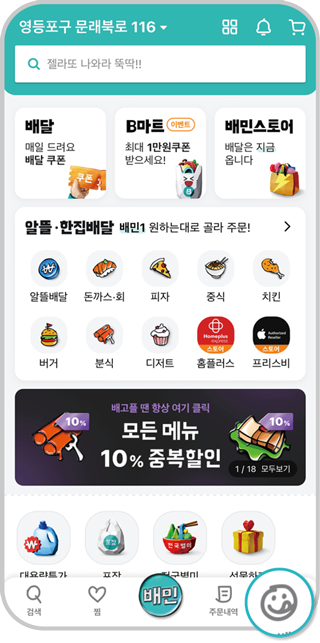
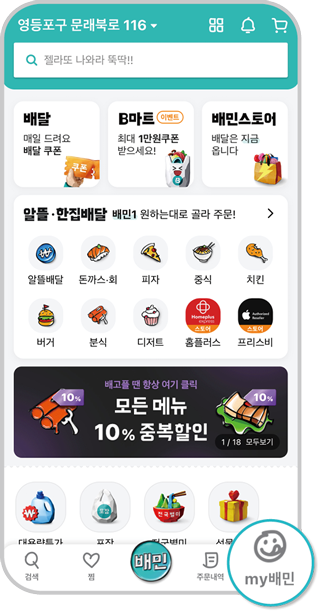
10.27. 추가 수정

diff --git a/public/lib/data.js b/public/lib/data.js
@@ -55,7 +55,7 @@ export const basic = [
             },
             {
                 id: '2',
-                desc: '동의하는 내용에 체크하고 <strong>시작하기</strong>를 누른다. <strong>필수</strong>에 꼭 체크해야 앱을 이용할 수 있다. <strong>선택</strong>은 원하면 체크한다. <p className="text-base">﹡선택에 체크하면 할인 정보, 이벤트 정보 등을 받아볼 수 있다.</p>',
+                desc: '동의하는 내용에 체크하고 <strong>시작하기</strong>를 누른다. <strong>필수</strong>에 꼭 체크해야 앱을 이용할 수 있다. <strong>선택</strong>은 원하면 체크한다. <p style="color:#888;" className="text-base">선택에 체크하면 할인 정보, 이벤트 정보 등을 받아볼 수 있다.</p>',
                 img: '/img/basic_imgs/b-4-2.png',
                 alt: '스마트폰 화면에 배달의민족을 처음 실행한 화면이다. 배달의민족 앱 이용약관 동의를 확인하는 페이지다. 위치 기반 서비스 약관 동의는 <strong>필수</strong>, 마케팅 정보 앱 푸시 알림 수신 동의는 선택 동의 항목이다. 위치 기반 서비스 약관 동의는 배달받기 위해 나의 위치 정보를 확인하는 것이다. 마케팅 정보 앱 푸시 알림 수신 동의는 배달앱의 더 많은 정보를 알림으로 알려주는 것이다.',
             },
@@ -91,13 +91,13 @@ export const basic = [
         tutoContents: [
             {
                 id: '1',
-                desc: '배달의민족 첫 화면에서 <strong>My배민(마이 배민)을</strong> 누른다.',
+                desc: '배달의민족 첫 화면에서 <strong>My배민(마이 배민)</strong>을 누른다.',
                 img: '/img/basic_imgs/b-5-1.png',
                 alt: '배달의민족 첫 화면이다. 맨 위 오른쪽에 웃고 있는 마이 배민 아이콘이 강조되어 있다. 손가락 모양의 아이콘이 마이 배민 아이콘을 가리키고 있다.',
             },
             {
                 id: '2',
-                desc: '로그인해주세요를 누른다.',
+                desc: '<strong>로그인하고 시작하기</strong>를 누른다',
                 img: '/img/basic_imgs/b-5-2.png',
                 alt: '마이 배민 페이지 화면이다. 위쪽에 로그인해주세요 버튼이 강조되어 있다. 손가락 모양의 아이콘이 로그인해주세요 버튼을 가리키고 있다.',
             },
@@ -109,7 +109,7 @@ export const basic = [
             },
             {
                 id: '4',
-                desc: `<div className="mb-2">이메일로 시작하기를 누른다</div>`,
+                desc: `<strong>이메일로 시작하기</strong>를 누른다.`,
                 img: '/img/basic_imgs/b-5-4.png',
                 alt: '회원가입 첫 페이지에 회원가입을 위한 약관이 나타난 화면이다. 필수 배달의민족 이용약관 동의, 필수 전자금융거래 이용약관 동의, 필수 개인정보 수집 이용 동의, 선택 개인정보 수집 이용 동의, 선택 마케팅정보 메일, SMS 수신동의, 선택 개인정보 제3자 제공 동의가 순서대로 있다. 화면 맨 아래에 시작하기 버튼이 있고 손가락 모양의 아이콘이 버튼을 가리키고 있다.',
             },
@@ -204,13 +204,13 @@ export const usage = [
             },
             {
                 id: '3',
-                desc: '<p>무엇을 시킬지 선택하고, 몇 개 시킬지 수량을 정한 후 <strong>담기</strong>를 누른다. </p> <p class="caption lg:text-left">맛, 소스, 토핑 등 옵션을 선택할 수 있다.</p>',
+                desc: '<p>무엇을 시킬지 선택하고, 몇 개 시킬지 수량을 정한 후 <strong>담기</strong>를 누른다. </p> <p style="color:#888;" className="text-base">맛, 소스, 토핑 등 옵션을 선택할 수 있다.</p>',
                 img: '/img/usage/rg-2-3.png',
                 alt: 'BLT 샌드위치를 선택하고, 추가 옵션으로 코우슬로 샐러드, 콘 스프를 추가한 화면이 나타나 있다. 21,000원 담기 버튼이 강조되어 있고, 손가락 모양이 가리키고 있다.',
             },
             {
                 id: '4',
-                desc: '<p><strong>장바구니에 메뉴를 추가했습니다</strong>라는 메시지가 나오고, <strong>장바구니 보기</strong>에 숫자가 생긴다.</p> <p className="caption lg:text-left lg:font-normal lg:text-BM-gray200">선택한 수량만큼 <strong>장바구니 보기</strong>에 숫자로 표시된다.</p>',
+                desc: '<p><strong>장바구니에 메뉴를 추가했습니다</strong>라는 메시지가 나오고, <strong>장바구니 보기</strong>에 숫자가 생긴다.</p> <p style="color:#888;" className="text-base">선택한 수량만큼 <strong>장바구니 보기</strong>에 숫자로 표시된다.</p>',
                 img: '/img/usage/rg-2-4.png',
                 alt: '장바구니에 메뉴를 추가했습니다 라는 알림이 화면에 표시되어 있다. 화면 맨 밑 장바구니 보기 버튼이 강조되어 있다.',
             },
@@ -247,7 +247,7 @@ export const usage = [
             },
             {
                 id: '5',
-                desc: '결제수단이 신용/체크카드인지 확인하고 <strong>본인 확인 후 결제하기</strong>를 누른다. <p className="caption lg:text-left lg:text-lg lg:font-normal lg:text-BM-gray200">첫 주문이라면 본인 확인이 필요하다.</p>',
+                desc: '결제수단이 신용/체크카드인지 확인하고 <strong>본인 확인 후 결제하기</strong>를 누른다. <p style="color:#888;" className="text-base">첫 주문이라면 본인 확인이 필요하다.</p>',
                 img: '/img/usage/rg-3-5.png',
                 alt: '배달의민족 결제하기 화면이다. 화면 가장 아래에 본인 확인 후 결제하기 버튼이 강조되어 있고, 손가락 모양의 아이콘이 버튼을 가리키고 있다.',
             },
@@ -292,7 +292,7 @@ export const usage = [
             },
             {
                 id: '12',
-                desc: '주문 금액과 배달팁이 맞는지 확인하고 <strong>결제하기</strong>를 누른다. <p className="caption lg:text-base lg:text-left">주문 후 취소하려면 어렵고 복잡하다. 주문은 신중하게!</p>',
+                desc: '주문 금액과 배달팁이 맞는지 확인하고 <strong>결제하기</strong>를 누른다. <p style="color:#888;" className="text-base">주문 후 취소하려면 어렵고 복잡하다. 주문은 신중하게!</p>',
                 img: '/img/usage/rg-3-12.png',
                 alt: '배달의민족 주문하기 화면으로 돌아왔다. 결제금액, 주문금액, 배달팁 부분이 강조되어 있고 화면 맨 아래에 22,000원 결제하기 버튼도 강조되어 있다. 손가락 모양의 아이콘이 22,000원 결제하기 버튼을 가리키고 있다.',
             },
@@ -343,7 +343,7 @@ export const advanced = [
             {
                 id: 1,
                 img: '/img/advanced_imgs/adv_id_0_1.png',
-                desc: `배달의민족 첫 화면에서 <strong>배민1</strong>을 누른다.`,
+                desc: `배달의민족 첫 화면에서 <strong>알뜰·한집배달</strong>을 누른다.`,
                 alt: '배달의민족의 첫 화면이다. 손가락 모양의 아이콘이 배민원 버튼을 가리키고 있다.',
             },
             {
@@ -460,7 +460,7 @@ export const advanced = [
             {
                 id: 4,
                 img: '/img/advanced_imgs/adv_id_2_4.png',
-                desc: `<p>지도에서 다른 가게를 더 볼 수 있다. 마음에 드는 곳을 선택해서 메뉴를 주문한다. </p><p className="caption lg:text-left lg:text-lg lg:font-normal lg:text-BM-gray200">목록보기를 누르면 가게 이름과 음식 사진이 나온다.</p>`,
+                desc: `<p>지도에서 다른 가게를 더 볼 수 있다. 마음에 드는 곳을 선택해서 메뉴를 주문한다. </p><p style="color:#888;" className="text-base">목록보기를 누르면 가게 이름과 음식 사진이 나온다.</p>`,
                 alt: '지도 위에 여러 가지 음식 모양의 아이콘이 표시되어 있다. 손가락 모양 아이콘이 목록보기 버튼을 가리키고 있다.',
             },
         ]
@@ -656,13 +656,13 @@ export const advanced = [
             {
                 id: 4,
                 img: '/img/advanced_imgs/adv_id_6_4.png',
-                desc: `<p><strong>구매하기</strong>를 누르고 수량을 정한 후 장바구니에 담는다.</p><p className="caption lg:text-left lg:text-lg lg:font-normal lg:text-BM-gray200">담은 물건 수량만큼 장바구니에 숫자로 표시된다.</p>`,
+                desc: `<p><strong>구매하기</strong>를 누르고 수량을 정한 후 장바구니에 담는다.</p><p style="color:#888;" className="text-base">담은 물건 수량만큼 장바구니에 숫자로 표시된다.</p>`,
                 alt: '검색한 세제의 상세 정보가 있는 페이지. 하단에 구매하기 버튼이 있고, 손가락 아이콘이 버튼을 가리키고 있다.',
             },
             {
                 id: 5,
                 img: '/img/advanced_imgs/adv_id_6_5.png',
-                desc: `<p><strong>배달 주문하기</strong>를 눌러서 결제하고 주문한다.</p><p className="caption lg:text-left lg:text-lg lg:font-normal lg:text-BM-gray200">B마트의 최소주문금액은 1만 원이다. 1만 원 넘게 주문해야 한다.</p>`,
+                desc: `<p><strong>배달 주문하기</strong>를 눌러서 결제하고 주문한다.</p><p style="color:#888;" className="text-base">B마트의 최소주문금액은 1만 원이다. 1만 원 넘게 주문해야 한다.</p>`,
                 alt: '화면 상단에 총 금액이 나와있고, 하단에 배달 주문하기 버튼이 있다. 그 위에 손가락이 올려져 버튼을 가리키고 있다.',
             },
         ]

diff --git a/src/components/usage_filter.js b/src/components/usage_filter.js
@@ -60,7 +60,7 @@ export default function Usage_0_filter() {
                             <li tabIndex={0} className="py-2 border-b md:text-lg border-BMprimary"><span className="block lg:mr-2 lg:inline font-hanna text-BMprimary">1인분</span>1인분을 배달해 주는 가게만 모아 볼 수 있다.</li>
                             <li tabIndex={0} className="py-2 border-b md:text-lg border-BMprimary"><span className="block lg:mr-2 lg:inline font-hanna text-BMprimary">배달팁</span> 배달팁 금액이 싼 가게만 모아 볼 수 있다.</li>
                             <li tabIndex={0} className="py-2 border-b md:text-lg border-BMprimary"><span className="block lg:mr-2 lg:inline font-hanna text-BMprimary">별점</span> 별점이 높은 가게만 모아 볼 수 있다.</li>
-                            <li tabIndex={0} className="py-2 md:text-lg"><strong className="block lg:inline lg:mr-2 font-hanna text-BMprimary">최소주문금액</strong> 최소주문금액이 싼 가게만 모아 볼 수 있다.</li>
+                            <li tabIndex={0} className="py-2 md:text-lg"><strong className="block font-normal lg:inline lg:mr-2 font-hanna text-BMprimary">최소주문금액</strong> 최소주문금액이 싼 가게만 모아 볼 수 있다.</li>
                         </ul>
                     </div>
                 </div>
